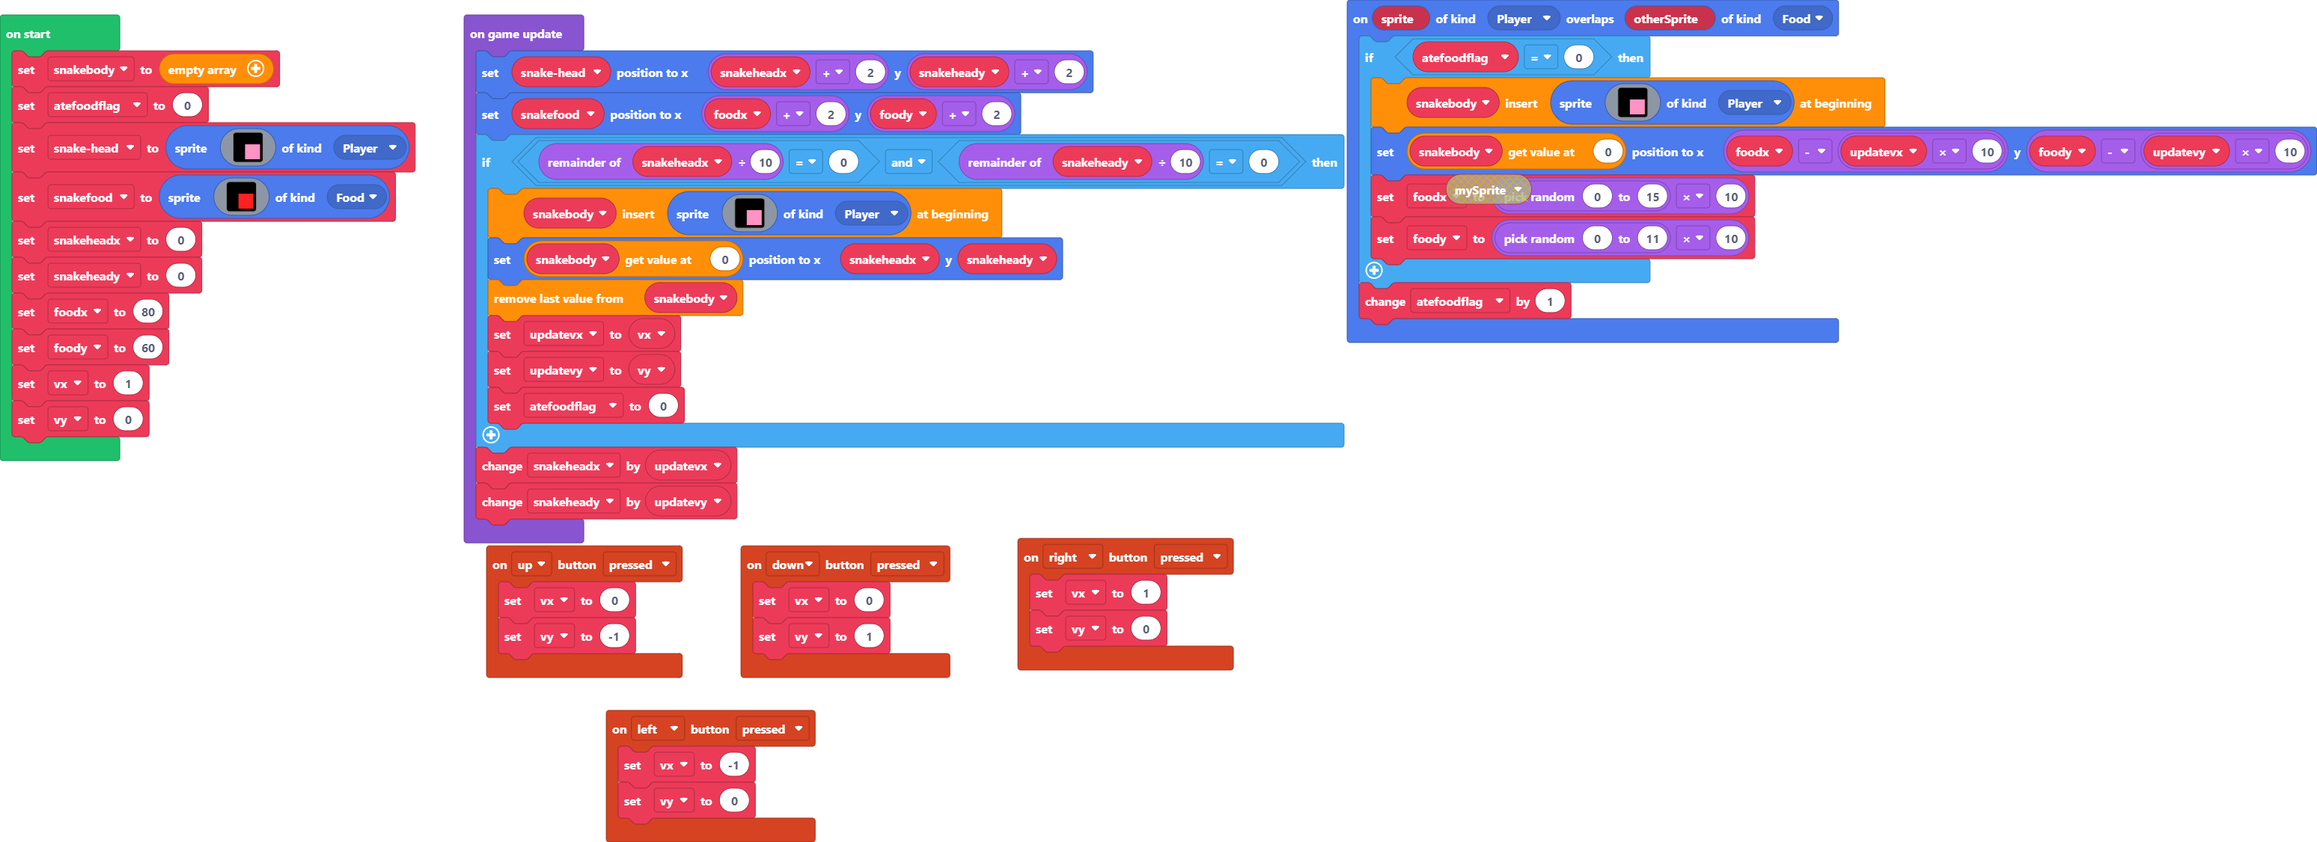
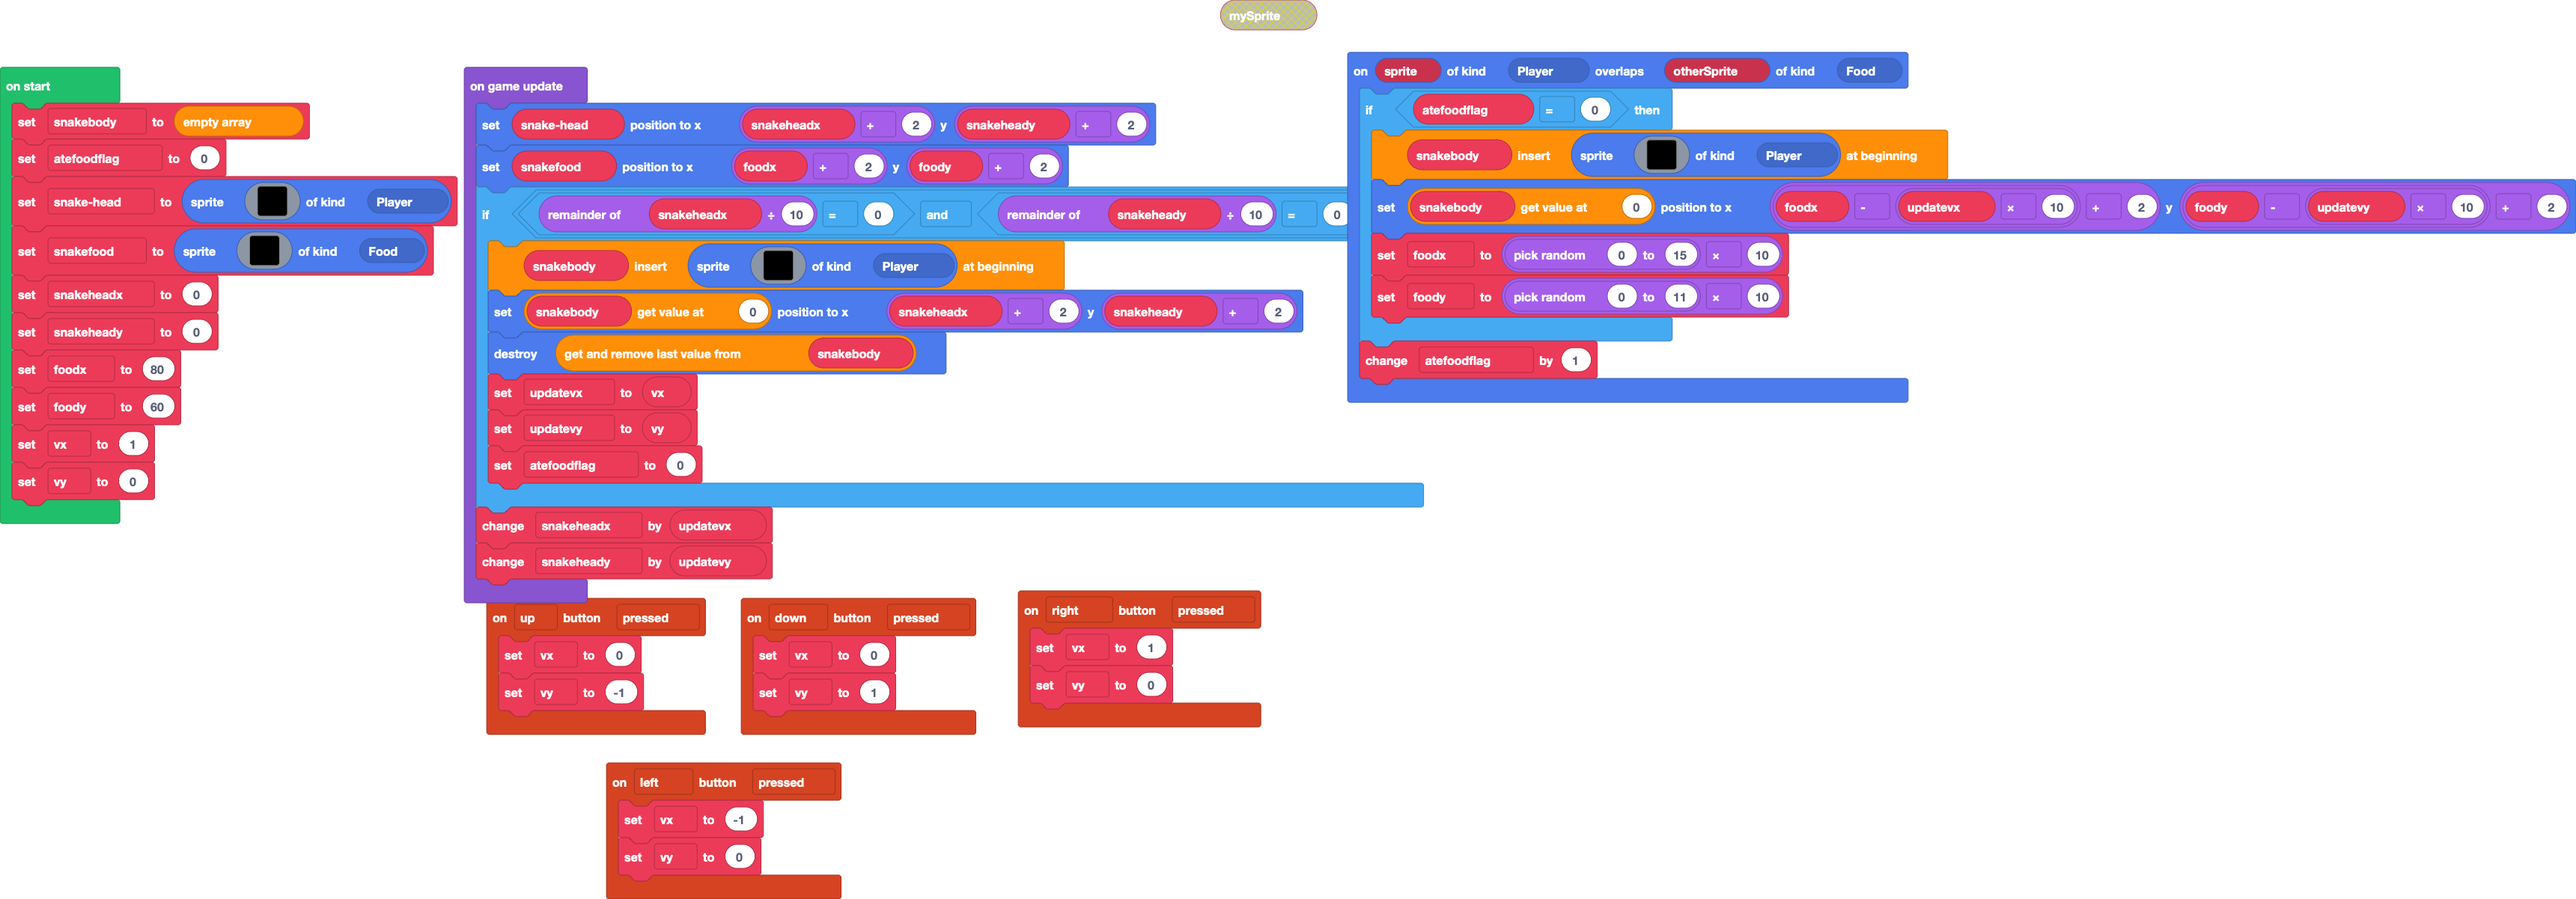
fixed snake body

diff --git a/main.ts b/main.ts
@@ -34,7 +34,7 @@ sprites.onOverlap(SpriteKind.Player, SpriteKind.Food, function (sprite, otherSpr
             . . . . . . 3 3 3 3 3 3 3 3 3 3 
             . . . . . . 3 3 3 3 3 3 3 3 3 3 
             `, SpriteKind.Player))
-        snakebody[0].setPosition(foodx - updatevx * 10, foody - updatevy * 10)
+        snakebody[0].setPosition(foodx - updatevx * 10 + 2, foody - updatevy * 10 + 2)
         foodx = randint(0, 15) * 10
         foody = randint(0, 11) * 10
     }
@@ -114,8 +114,8 @@ game.onUpdate(function () {
             . . . . . . 3 3 3 3 3 3 3 3 3 3 
             . . . . . . 3 3 3 3 3 3 3 3 3 3 
             `, SpriteKind.Player))
-        snakebody[0].setPosition(snakeheadx, snakeheady)
-        snakebody.pop()
+        snakebody[0].setPosition(snakeheadx + 2, snakeheady + 2)
+        snakebody.pop().destroy()
         updatevx = vx
         updatevy = vy
         atefoodflag = 0
